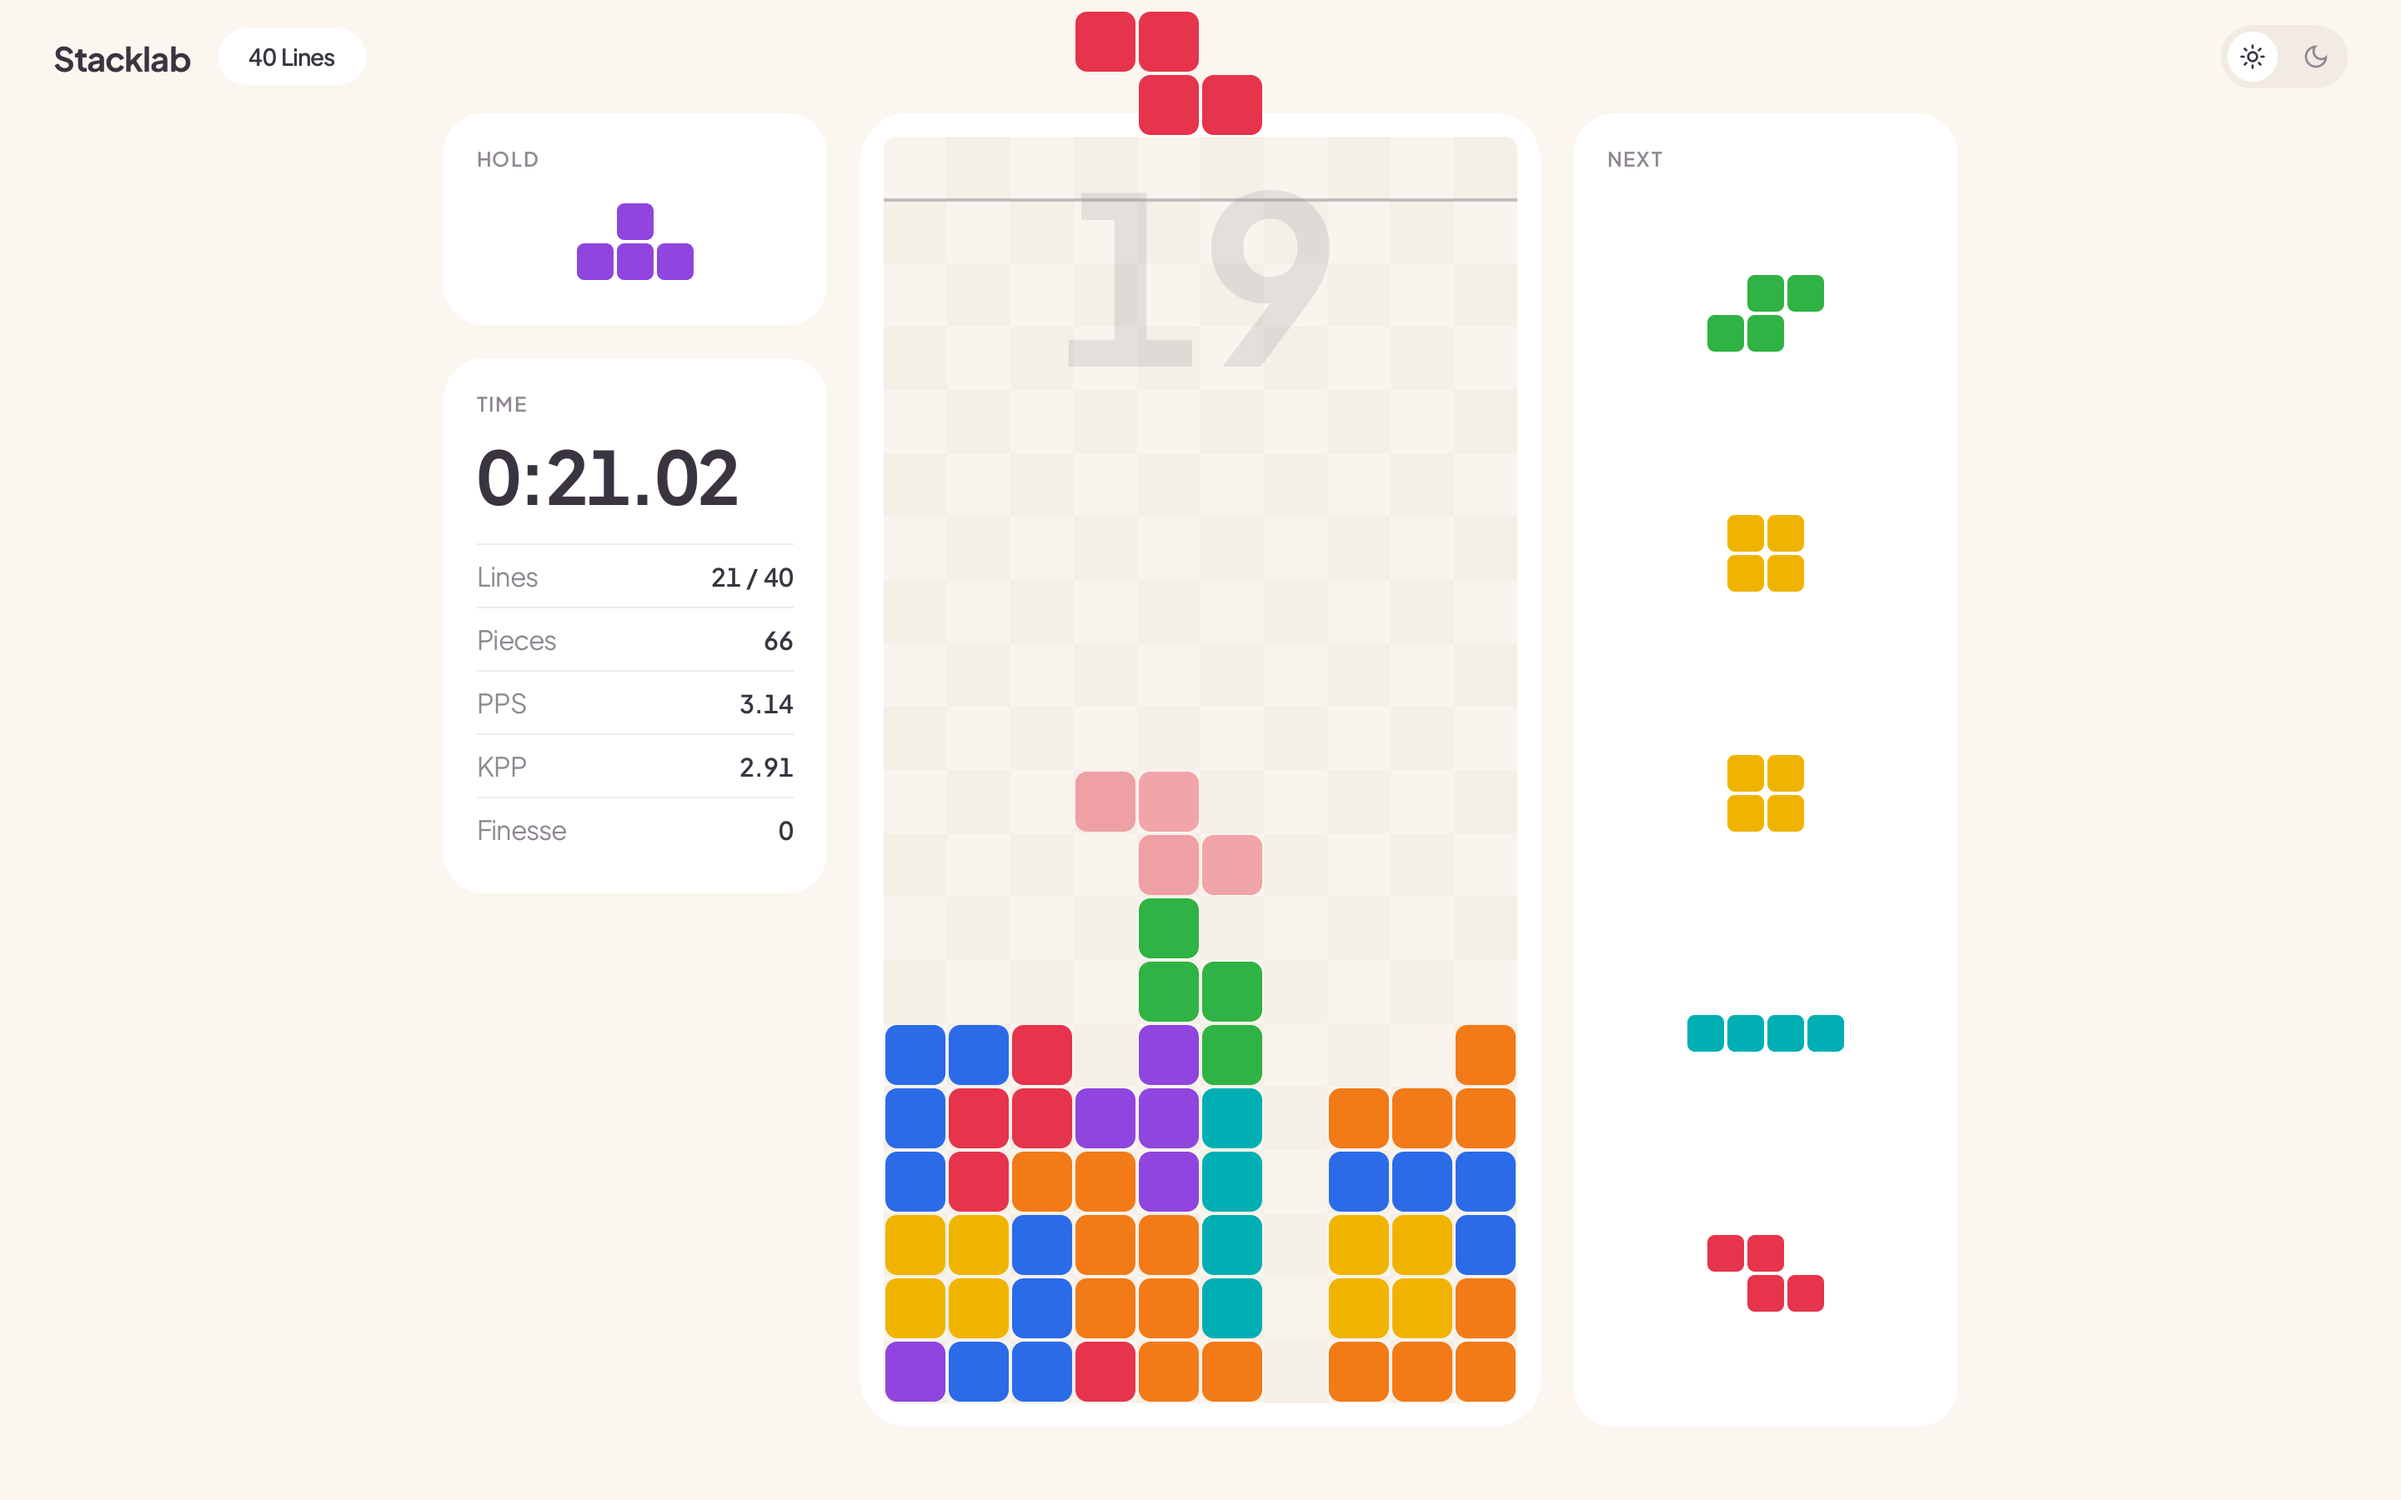
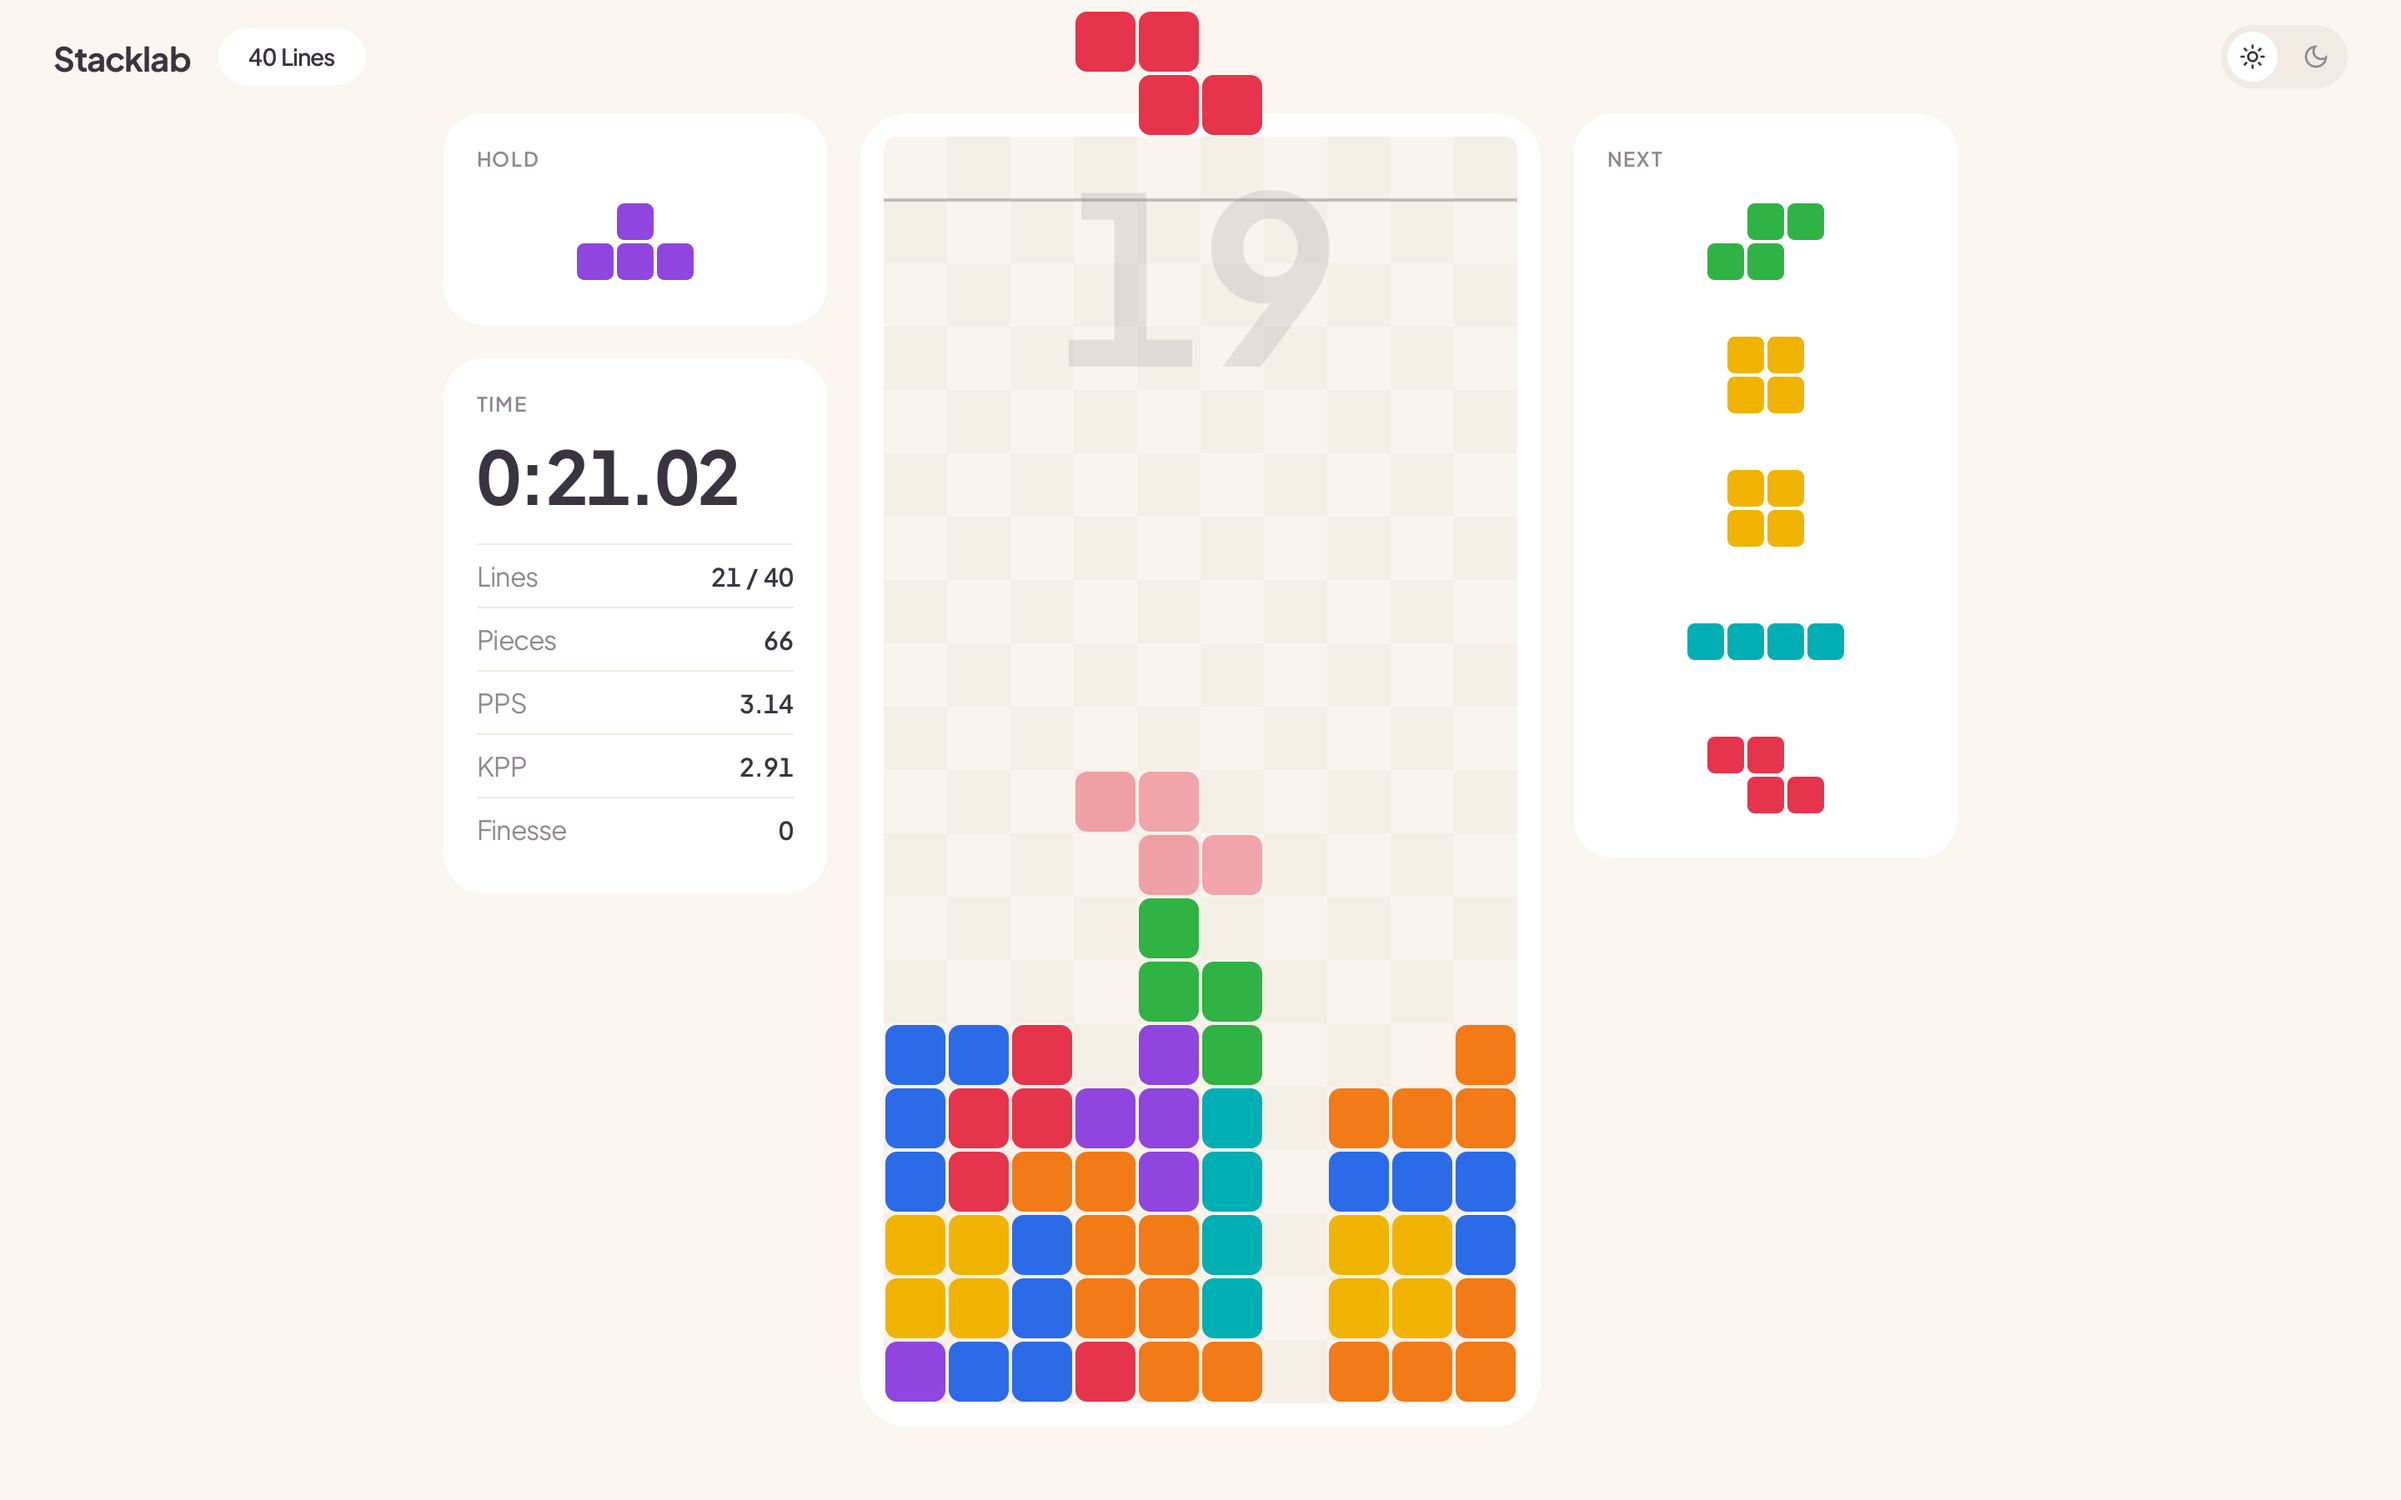
Shorten the next queue's card to fit its hold-sized pieces

diff --git a/app/ui.cpp b/app/ui.cpp
@@ -34,7 +34,7 @@ constexpr float kToggleW = 76, kToggleH = 38, kBarSide = 32;
 constexpr float kLabelTracking = 1.1f;
 constexpr float kTimeTracking = -1.32f;
 constexpr float kSetupRowsH = 108;  // PC practice's setup lines on the coach card
-constexpr float kHoldCell = 24, kNextSlot = 144;
+constexpr float kHoldCell = 24, kNextSlot = 80;
 
 constexpr const char* kFontFiles[] = {"PlusJakartaSans-Regular.ttf", "PlusJakartaSans-SemiBold.ttf", "PlusJakartaSans-Bold.ttf"};
 struct FontSpec {
@@ -709,9 +709,9 @@ void Ui::drawPlay(const PlayView& view) {
         return;
     }
 
-    card(kRightX, kRowY, kColumnW, 788, "NEXT");
+    card(kRightX, kRowY, kColumnW, 77 + 4 * kNextSlot + 50, "NEXT");  // about 57% of the board's height
     // Fixed slots, so the queue doesn't jump as flat I pieces pass through it.
-    for (int i = 0; i < 5 && i < static_cast<int>(game.queue.size()); i++) preview(game.queue[i], kRightX + kColumnW / 2, kRowY + 120 + kNextSlot * i, kHoldCell);  // as big as hold's
+    for (int i = 0; i < 5 && i < static_cast<int>(game.queue.size()); i++) preview(game.queue[i], kRightX + kColumnW / 2, kRowY + 77 + kNextSlot * i, kHoldCell);  // as big as hold's
 
     if (view.banner) text(FontTime, view.banner, kBoardX + 190, kBoardY + 396, colors.text, Align::Center);
     if (view.banner) text(FontRow, view.hint, kBoardX + 190, kBoardY + 428, colors.muted, Align::Center);
